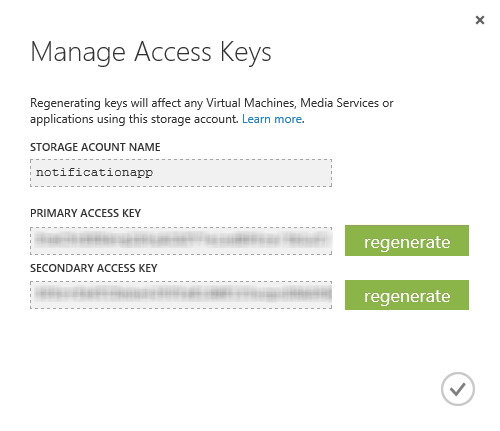
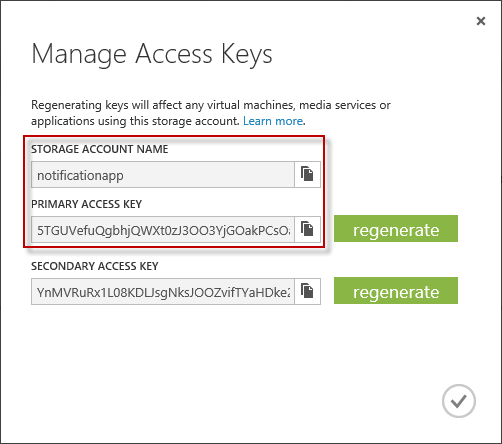
Updated WNS flow and minor fixes. Updated to .NET Framework 4.5.

diff --git a/HOL.md b/HOL.md
@@ -80,7 +80,7 @@ The application you deploy in this exercise requires a Web Site and a Storage Ac
 
 1. First, you will create the **Storage Account** that the application will use to store its data. In the Windows Azure Management Portal, click **New** | **Data Services** | **Storage** | **Quick Create**.
 
-1. Set a unique **URL**, for example _notificationapp_, and click the **Tick** to continue.
+1. Set a unique **URL**, for example _notificationapp_, and select **Create Storage Account**.
  
 	![Creating a new storage account](./Images/creating-a-new-storage-account.png?raw=true)
 
@@ -96,27 +96,25 @@ The application you deploy in this exercise requires a Web Site and a Storage Ac
 
 	_Storage Accounts page_
 
-1.	In the **Dashboard** page, you will see the **URL** assigned to each service in the storage account. Record the public storage account name, this is the first segment of the URL assigned to your endpoints.
-
-	![Storage Account Dashboard page](./Images/storage-account-dashboard-page.png?raw=true "Storage Account Dashboard page")
-
-	_Storage Account Dashboard page_
-
 1.	Click **Manage Keys** at the bottom of the page in order to show the storage account's access keys.
 
-1. Copy the **Primary access key** value. You will use this value later on to configure the application.
+	![Manage Keys](./Images/manage-keys-option.png?raw=true "Manage Keys")
+
+	_Manage Storage Account Keys_
+
+1. Copy the **Storage Acount Name** and the **Primary access key**. You will use these values later on to configure the application.
 
 	![Manage Storage Account Keys](./Images/manage-storage-account-keys.png?raw=true "Manage Storage Account Keys")
 
 	_Manage Storage Account Keys_
 
-	>**Note:** The **Primary Access Key** and **Secondary** Access **Key** both provide a shared secret that you can use to access storage. The secondary key gives the same access as the primary key and is used for backup purposes. You can regenerate each key independently in case either one is compromised.
+	>**Note:** The **Primary Access Key** and **Secondary Access Key** both provide a shared secret that you can use to access storage. The secondary key gives the same access as the primary key and is used for backup purposes. You can regenerate each key independently in case either one is compromised.
 
 1. Go back to the portal home page, and select **Web Sites**.
 
 1. Select **New**, then select **Compute** | **Web Site** from the list and then **Quick Create**.
 
-1. Choose a name for your Web Site and then select **Create Web Site**
+1. Choose a name for your Web Site and then select **Create Web Site**.
 
 	![Creating a new Web Site](./Images/creating-a-new-web-site.png?raw=true)
 	
@@ -136,7 +134,7 @@ In this task, you will update the Connection String values within the web config
 		connection string for your Windows Azure Storage account. For example:
 		"DefaultEndpointsProtocol=https;AccountName={your storage account name};AccountKey={your storage account key}"
 	-->
-	<add key="DataConnectionString" value="DefaultEndpointsProtocol=https;AccountName={your storage account};AccountKey={your storage account key}"/
+	<add key="DataConnectionString" value="DefaultEndpointsProtocol=https;AccountName={your storage account};AccountKey={your storage account key}"/>
 	````
 
 1. Press **CTRL+SHIFT+B** to build the solution.
@@ -217,7 +215,7 @@ In this task, you will obtain the Windows Push Notification Services (WNS) crede
 
 	_Package Security Identifier (SID) and Client secret_
 
-1.	Switch to the Notification App Server, open **Web.config** file and replace _[YOUR_WNS_PACKAGE_SID]_ with the **Package Security Identifier (SID)**  and _[YOUR_WNS_CLIENT_SECRET]_ with the **Client secret**.
+1.	Switch to the Notification App Server, open **Web.config** file and replace _[YOUR_WNS_PACKAGE_SID]_ with the **Package Security Identifier (SID)**  and _[YOUR_WNS_CLIENT_SECRET]_ with the **Client secret** that you obtained either from the Windows Store or from the Windows Push Notifications & Live Connect Portal.
 
 	![Updating Web.config with WNS Credentials](./Images/updating-webconfig-with-wns-cred.png?raw=true)
 
@@ -232,7 +230,7 @@ In this task, you will obtain the Windows Push Notification Services (WNS) crede
 
 In this task, you will deploy the Notification App Server to Windows Azure using Web Deploy.
 
-1. In the Windows Azure Portal, select **Web Sites**, and then select your Web Site to open the **Dashboard**.  In the **Dashboard** page, under the **quick glance** section, click the **Download publish profile** link and save the file to a known location. You will use theses settings later to publish the web site from Visual Studio 2012.
+1. In the Windows Azure Portal, select **Web Sites**, and then select your Web Site to open the **Dashboard**.  In the **Dashboard** page, under the **quick glance** section, click the **Download publish profile** link and save the file to a known location. You will use theses settings later to publish the web site from Visual Studio.
 
 	> **Note:** The _publish profile_ contains all of the information required to publish a web application to a Windows Azure website for each enabled publication method. The publish profile contains the URLs, user credentials and database strings required to connect to and authenticate against each of the endpoints for which a publication method is enabled. **Microsoft Visual Studio** supports reading publish profiles to automate the publishing configuration for web applications to Windows Azure Web Sites.
 
@@ -305,6 +303,8 @@ In this task, you will update the package.appmanifest to receive Wide Tile notif
 	![Configuring your client application to allow Toast Notifications](./Images/configuring-your-client-application-to-allow.png?raw=true)
 
 	_Configuring your client application to allow Toast Notifications_
+
+	> **Note:** In the following steps of this task you will associate your application with the Windows Store. If you obtained your WNS credentials from the Windows Push Notifications & Live Connect Portal, there is no need to execute these steps.
 
 1.	Click **Store** in the Visual Studio menu and select **Associate App with the Store**.
 
@@ -503,3 +503,5 @@ By completing this Hands-On Lab you have learned how to:
 -	Test sending notifications to your client app via WNS using the Windows Azure Toolkit for Windows 8 portal.
 
 If you would like the full codebase for the **Notification App Server** to update for your own applications please download the **Windows Azure Training Kit for Windows 8** (http://watwindows8.codeplex.com).
+
+---
